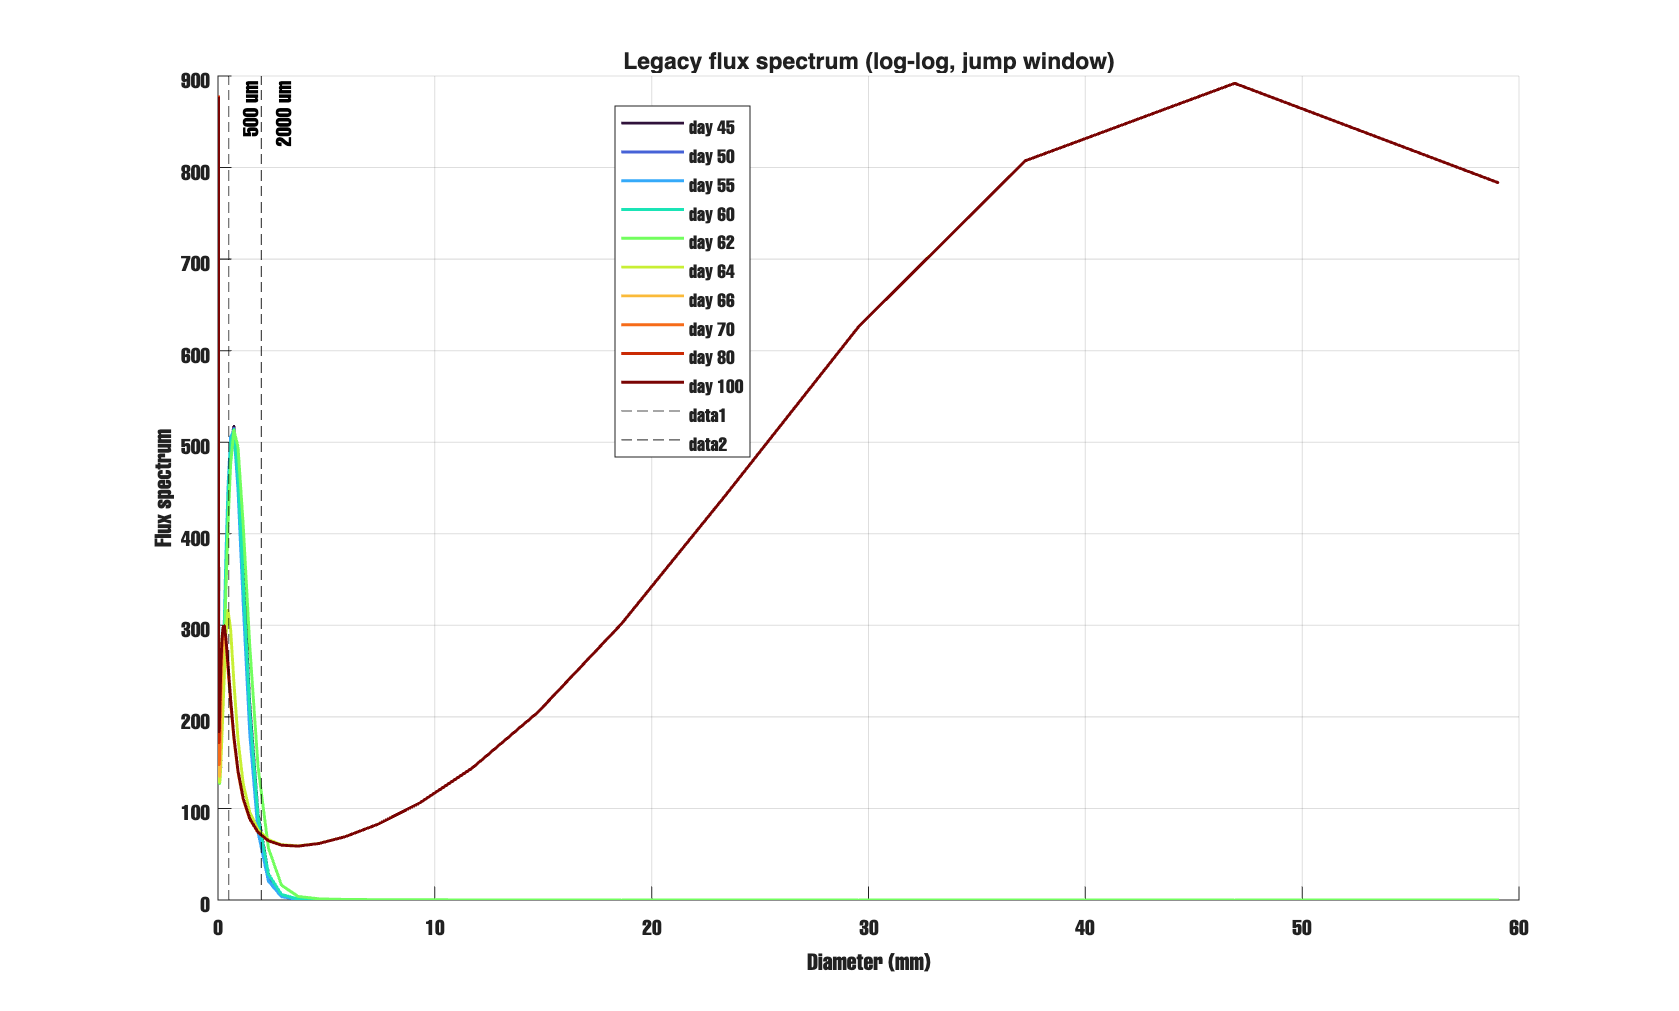
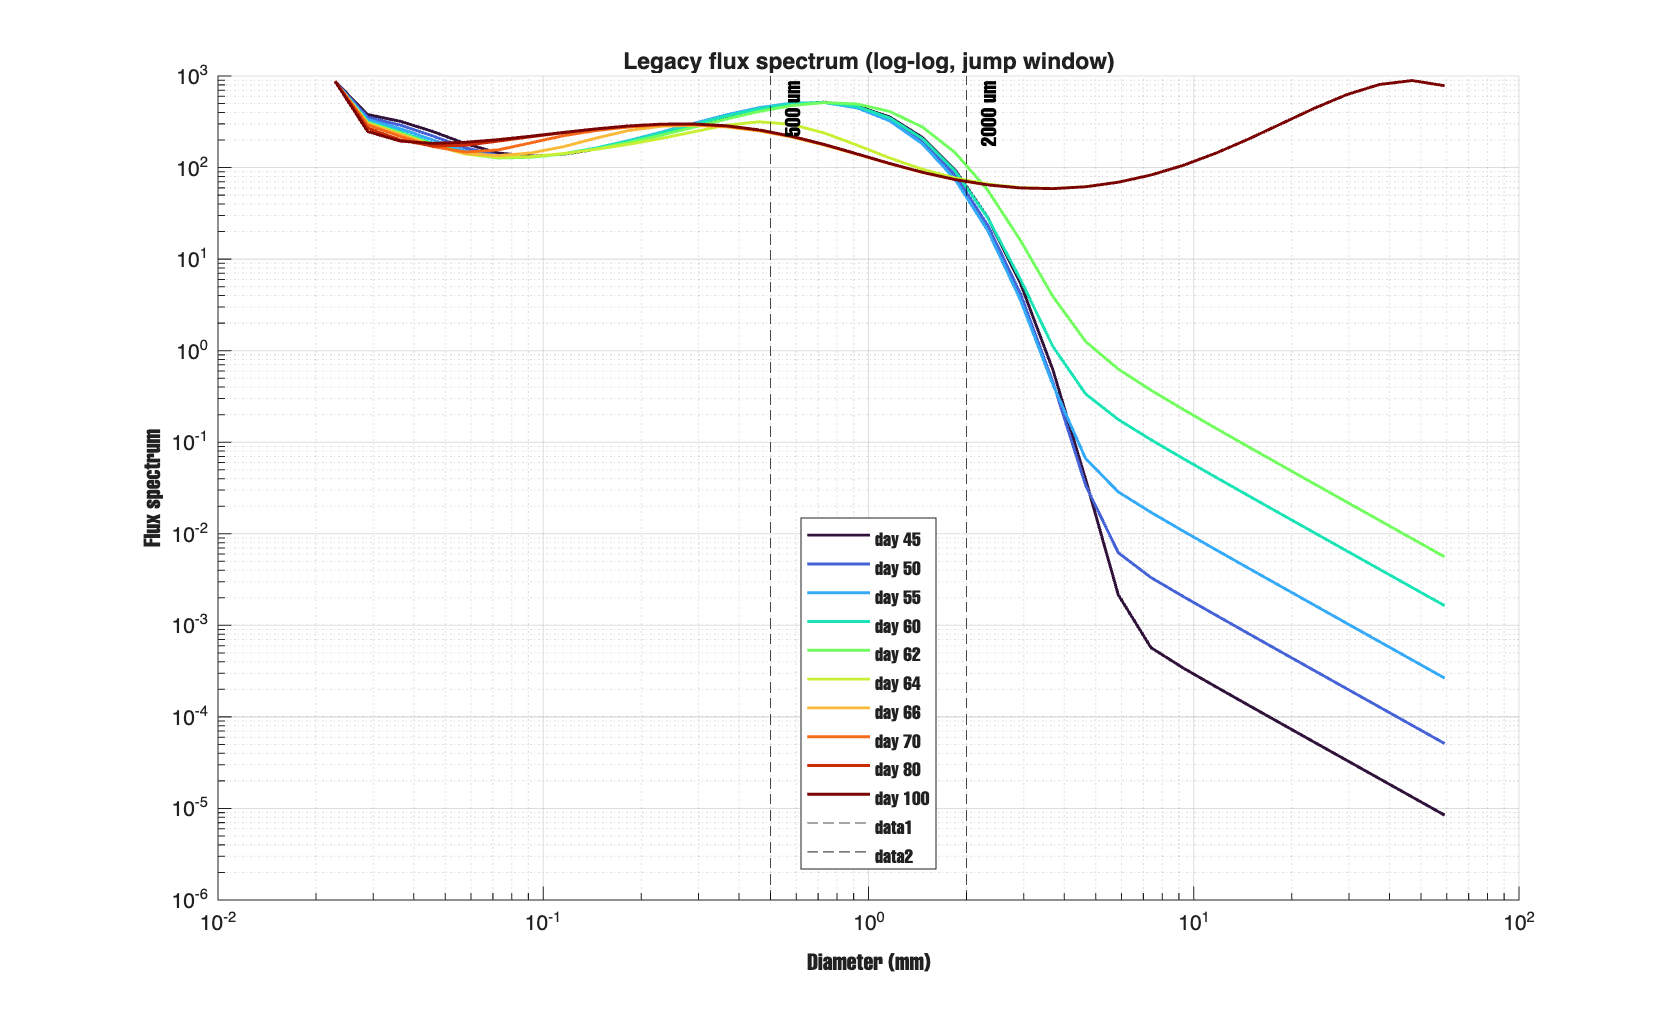
Update Feb 18 report with confirmed log-log plots

diff --git a/diagnostics/plot_jump_window_loglog.m b/diagnostics/plot_jump_window_loglog.m
@@ -49,6 +49,8 @@ for i = 1:numel(plot_days)
 end
 xline(0.5, 'k--', '500 um');
 xline(2.0, 'k--', '2000 um');
+set(gca, 'XScale', 'log', 'YScale', 'log'); % force log-log axes
+xlim([1e-2 1e2]);
 grid on;
 xlabel('Diameter (mm)');
 ylabel('Mass spectrum');
@@ -64,6 +66,8 @@ for i = 1:numel(plot_days)
 end
 xline(0.5, 'k--', '500 um');
 xline(2.0, 'k--', '2000 um');
+set(gca, 'XScale', 'log', 'YScale', 'log'); % force log-log axes
+xlim([1e-2 1e2]);
 grid on;
 xlabel('Diameter (mm)');
 ylabel('Flux spectrum');
@@ -72,4 +76,4 @@ legend('Location','best');
 saveas(fig2, fullfile(fig_dir, 'legacy_jump_window_flux_loglog.png'));
 
 fprintf('\nSaved jump-window log-log figures to: %s\n', fig_dir);
-
+fprintf('Mass plot scales: X=%s Y=%s\n', get(gca,'XScale'), get(gca,'YScale'));

diff --git a/docs/report_feb_18.md b/docs/report_feb_18.md
@@ -5,6 +5,7 @@
 2. Log-log plots for size and flux.
 3. Sectional mass balance (what goes in and out of each bin).
 
+
 ### the peak?
 old model has a sharp jump at **63.25 -> 63.50 days**.
 
@@ -43,4 +44,3 @@ Closure summary shows very small RHS residuals.
 
 Selected bins: total in/out and dY/dt mostly match, with spike near jump time.  
 ![Selected bins total in out](figures/sectional_balance_selected_bins_total.png)
-
